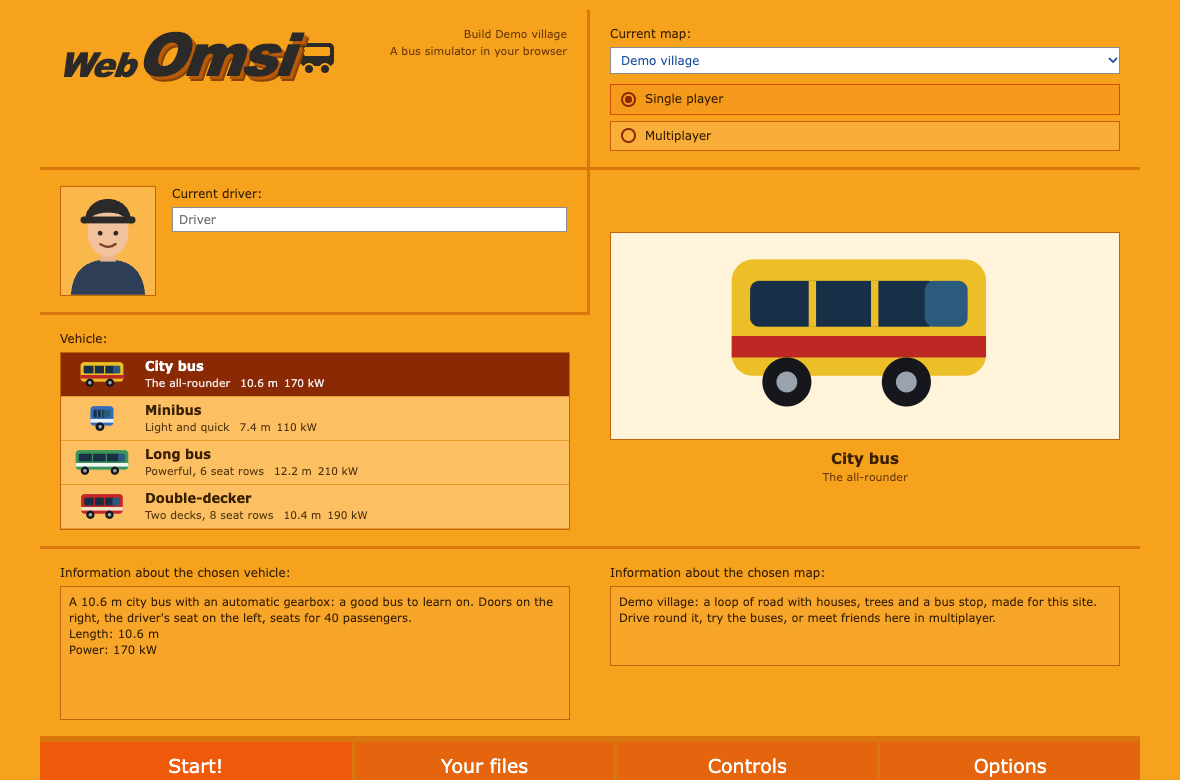
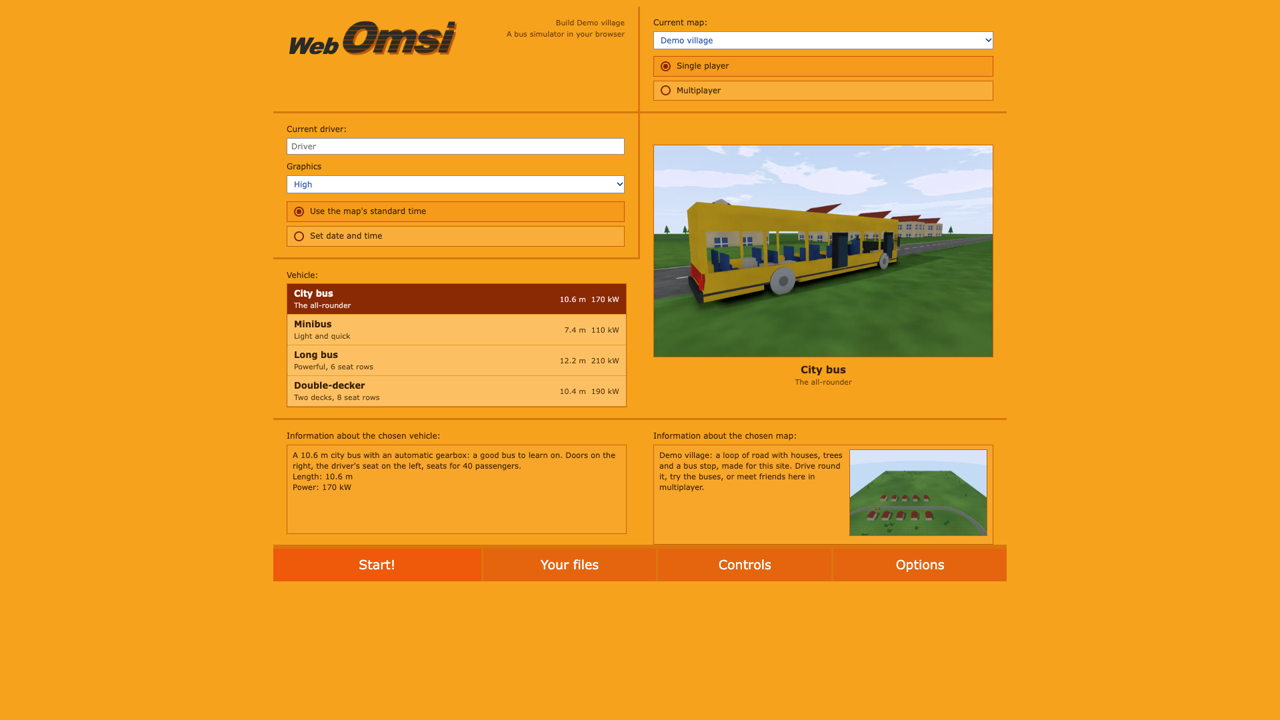
Closer to the classic menu: real screenshots instead of drawings, date and time, striped mark
* The drawn buses and the portrait are gone. The big picture is a screenshot of the chosen bus
  made by the engine itself (web/previews), the map has a thumbnail in its information box.
* The vehicles are a plain list box with name, note, length and power.
* New: choose the date and time of the start (passed to the engine as --date and --time).
* The mark is set in striped italic letters; graphics quality sits next to the driver's name.

Claude-Session: https://claude.ai/code/session_01EgXVikzUTPY17oVd6XAjtc

diff --git a/web/main.js b/web/main.js
@@ -68,6 +68,7 @@ const T = {
     files_n2: 'Files', loading_files: 'Downloading the game files', pick_folder: 'Choose a folder', own_drop2: 'Drop zip files or a folder here, or tap to choose', building: 'Putting the files together…', theme_classic: 'Classic', theme_modern: 'Modern', menu_title: 'WebOmsi - Main menu',
     cur_map: 'Current map:', cur_driver: 'Current driver:', vehicle: 'Vehicle:', info_bus: 'Information about the chosen vehicle:', info_map: 'Information about the chosen map:',
     build: 'Build', language: 'Language', options: 'Options', btn_own: 'Your files', from_files: 'From your files', map_from: 'A map from your files', spec_len: 'Length', spec_power: 'Power', pick_public: 'Pick a room or a server in the list, or choose another way to join.',
+    t_std: "Use the map's standard time", t_set: 'Set date and time', t_date: 'Date', t_time: 'Time',
     kb: [['W / S', 'gas / brake'], ['A / D', 'steering'], ['Space', 'parking brake'], ['Shift+U', 'start the bus'], ['Shift+1', 'doors'], ['H', 'horn'], ['Z / X / C', 'indicators / hazards'], ['F1', 'cameras'], ['Esc', 'game menu'], ['Mouse', 'look round, press cab buttons']],
     ts: [['Wheel', 'drag the steering wheel, left'], ['Pedals', 'BRAKE and GAS, right'], ['R N D', 'gearbox buttons'], ['P', 'parking brake'], ['Finger', 'look round; two fingers zoom']],
   },
@@ -112,6 +113,7 @@ const T = {
     files_n2: 'Файлы', loading_files: 'Загрузка файлов игры', pick_folder: 'Выбрать папку', own_drop2: 'Перетащите сюда zip или папку, либо нажмите и выберите', building: 'Собираю файлы вместе…', theme_classic: 'Классика', theme_modern: 'Современный', menu_title: 'WebOmsi - Главное меню',
     cur_map: 'Текущая карта:', cur_driver: 'Текущий водитель:', vehicle: 'Автобус:', info_bus: 'Информация о выбранном автобусе:', info_map: 'Информация о выбранной карте:',
     build: 'Сборка', language: 'Язык', options: 'Настройки', btn_own: 'Свои файлы', from_files: 'Из ваших файлов', map_from: 'Карта из ваших файлов', spec_len: 'Длина', spec_power: 'Мощность', pick_public: 'Выберите комнату или сервер в списке либо другой способ входа.',
+    t_std: 'Время карты по умолчанию', t_set: 'Задать дату и время', t_date: 'Дата', t_time: 'Время',
     kb: [['W / S', 'газ / тормоз'], ['A / D', 'руль'], ['Space', 'стояночный тормоз'], ['Shift+U', 'запустить автобус'], ['Shift+1', 'двери'], ['H', 'гудок'], ['Z / X / C', 'поворотники / аварийка'], ['F1', 'камеры'], ['Esc', 'меню игры'], ['Мышь', 'осмотреться, нажимать кнопки кабины']],
     ts: [['Руль', 'ведите по рулю, слева'], ['Педали', 'BRAKE и GAS, справа'], ['R N D', 'кнопки коробки передач'], ['P', 'стояночный тормоз'], ['Палец', 'осмотреться; двумя пальцами - приблизить']],
   },
@@ -165,22 +167,6 @@ const CACHE = 'omsi-pack-v1';
 const KEY = './__pack__/' + (manifest ? 'dir-' + manifest.id : encodeURIComponent(packUrl));
 document.title = 'WebOmsi' + (config.title ? ' - ' + config.title : '');
 
-// ---- bus pictures ------------------------------------------------------------------------------
-const NS = 'http://www.w3.org/2000/svg';
-function busArt(color = '#ecbe28', stripe = '#be2824', length = 10.6) {
-  const w = 40 + Math.round((length - 7) * 12);          // a longer bus is a longer picture
-  const svg = document.createElementNS(NS, 'svg');
-  svg.setAttribute('viewBox', `0 0 ${w + 20} 62`);
-  const el = (n, a) => { const e = document.createElementNS(NS, n); for (const k in a) e.setAttribute(k, a[k]); svg.append(e); return e; };
-  el('rect', { x: 8, y: 6, width: w, height: 38, rx: 7, fill: color });
-  el('rect', { x: 8, y: 31, width: w, height: 7, fill: stripe });
-  el('rect', { x: 14, y: 13, width: w - 22, height: 15, rx: 3, fill: '#173047' });
-  const n = Math.max(3, Math.round((w - 30) / 22));
-  for (let i = 1; i < n; i++) el('rect', { x: 14 + ((w - 22) / n) * i - 1.2, y: 13, width: 2.4, height: 15, fill: color });
-  el('rect', { x: w - 12, y: 13, width: 14, height: 15, rx: 3, fill: '#2a5a7c' });
-  for (const cx of [26, w - 18]) { el('circle', { cx, cy: 46, r: 8, fill: '#15171c' }); el('circle', { cx, cy: 46, r: 3.4, fill: '#9aa3ad' }); }
-  return svg;
-}
 const baseBuses = config.buses || [];
 // the player's own zips: [{ id, name, size, maps, buses }] (their bytes are in the cache)
 const MODS_KEY = 'omsi.mods';
@@ -189,14 +175,15 @@ try { mods = JSON.parse(localStorage.getItem(MODS_KEY) || '[]'); } catch (_) { m
 const saveMods = () => { try { localStorage.setItem(MODS_KEY, JSON.stringify(mods)); } catch (_) {} };
 const allBuses = () => [
   ...baseBuses,
-  ...mods.flatMap((m) => m.buses.map((b) => ({ file: b.file, name: b.label, info: m.name, color: '#9aa5b1', stripe: '#3d4652', length: 11, custom: true }))),
+  ...mods.flatMap((m) => m.buses.map((b) => ({ file: b.file, name: b.label, info: m.name, custom: true }))),
 ];
 const first = baseBuses[0] || {};
 const pick = (v) => (v && typeof v === 'object' ? (v[lang] || v.en || '') : (v || ''));
 function showBus(b) {
   b = b || allBuses().find((x) => x.file === chosen) || first;
   if (!b || !b.file) return;
-  $('art-bus').replaceChildren(busArt(b.color, b.stripe, b.length || 10.6));
+  const img = $('art-bus');
+  if (b.preview) { img.src = b.preview; img.alt = b.name; img.hidden = false; } else img.hidden = true;
   const cap = document.createElement('div'); cap.textContent = b.name;
   const small = document.createElement('small'); small.textContent = b.info || '';
   $('bus-caption').replaceChildren(cap, small);
@@ -209,7 +196,10 @@ function showBus(b) {
 function showMap() {
   const sel = $('map');
   const label = sel.selectedOptions[0] ? sel.selectedOptions[0].textContent : '';
-  $('info-map').textContent = (!sel.value || sel.value === MAP) ? pick(config.mapInfo) : `${t('map_from')}: ${label}`;
+  const mine = !sel.value || sel.value === MAP;
+  $('info-map').textContent = mine ? pick(config.mapInfo) : `${t('map_from')}: ${label}`;
+  const mi = $('map-img');
+  if (mine && config.mapPreview) { mi.src = config.mapPreview; mi.hidden = false; } else mi.hidden = true;
 }
 let chosen = params.get('bus') || localStorage.getItem('omsi.bus') || first.file;
 function renderBuses() {
@@ -222,13 +212,11 @@ function renderBuses() {
     input.addEventListener('change', () => { chosen = b.file; showBus(b); });
     const text = document.createElement('div');
     const name = document.createElement('b'); name.textContent = b.name;
-    const info = document.createElement('span'); info.className = 'info'; info.textContent = b.info || '';
-    const tags = document.createElement('div'); tags.className = 'tags';
-    if (b.custom) tags.append(Object.assign(document.createElement('span'), { className: 'tag', textContent: t('your_buses') }));
-    if (b.length && !b.custom) tags.append(Object.assign(document.createElement('span'), { className: 'tag', textContent: `${b.length} ${t('len')}` }));
-    if (b.kw) tags.append(Object.assign(document.createElement('span'), { className: 'tag', textContent: `${b.kw} ${t('kw')}` }));
-    text.append(name, info, tags);
-    label.append(input, busArt(b.color, b.stripe, b.length), text);
+    const info = document.createElement('span'); info.className = 'info'; info.textContent = b.custom ? t('your_buses') + ': ' + (b.info || '') : (b.info || '');
+    text.append(name, info);
+    const spec = document.createElement('span'); spec.className = 'spec';
+    spec.textContent = [b.length && !b.custom ? `${b.length} ${t('len')}` : '', b.kw ? `${b.kw} ${t('kw')}` : ''].filter(Boolean).join('  ');
+    label.append(input, text, spec);
     return label;
   }));
 }
@@ -238,6 +226,17 @@ $('name').value = localStorage.getItem('omsi.name') || '';
 $('server').value = params.get('server') || localStorage.getItem('omsi.server') || '';
 $('quality').value = params.get('quality') || localStorage.getItem('omsi.quality') || (touchDevice ? 'low' : 'high');
 $('map').addEventListener('change', () => showMap());
+// the date and time of the start (the map's own when not set)
+let timeSet = localStorage.getItem('omsi.tset') === '1';
+function renderTime() {
+  $('t-std').classList.toggle('on', !timeSet); $('t-set').classList.toggle('on', timeSet); $('t-fields').hidden = !timeSet;
+}
+$('t-std').addEventListener('click', () => { timeSet = false; localStorage.setItem('omsi.tset', '0'); renderTime(); });
+$('t-set').addEventListener('click', () => { timeSet = true; localStorage.setItem('omsi.tset', '1'); renderTime(); });
+$('t-date').value = localStorage.getItem('omsi.date') || '1989-05-30';
+$('t-time').value = localStorage.getItem('omsi.time') || '09:00';
+for (const id of ['t-date', 't-time']) $(id).addEventListener('change', () => localStorage.setItem(id === 't-date' ? 'omsi.date' : 'omsi.time', $(id).value));
+renderTime();
 function renderMaps() {
   const sel = $('map');
   const opts = [{ v: MAP, l: config.title || MAP }, ...mods.flatMap((m) => m.maps.map((x) => ({ v: x.file, l: `${x.name} · ${m.name}` })))];
@@ -574,6 +573,7 @@ async function play() {
     const { base, extras } = await getPack();
     const args = ['--map', $('map').value || MAP, '--bus', chosen, '--no-menu'];
     if (name) args.push('--lan-name', name);
+    if (timeSet && mode !== 'join') { if ($('t-time').value) args.push('--time', $('t-time').value); if ($('t-date').value) args.push('--date', $('t-date').value); }
     if (mode === 'join') {
       // open the channel to the host first: the game's session starts on it
       step(2); progress(null);

diff --git a/web/style.css b/web/style.css
@@ -35,8 +35,7 @@ label { display: block; font-size: 12px; color: var(--ink); margin: 0 0 4px; }
 /* ---- the mark ------------------------------------------------------------------------------------------ */
 .wordmark { display: flex; align-items: flex-end; line-height: .9; font-family: "Arial Black", "Segoe UI Black", Impact, Verdana, sans-serif; font-style: italic; font-weight: 900; color: #2b2a28; user-select: none; }
 .wordmark .w { font-size: 34px; margin-right: 3px; transform: skewX(-6deg); letter-spacing: -1px; }
-.wordmark .o { font-size: 60px; letter-spacing: -3px; text-shadow: 3px 3px 0 #b85a07, 5px 5px 0 #8a4505; transform: skewX(-6deg); }
-.wordmark .two { width: 40px; height: 44px; margin-left: 4px; }
+.wordmark .o { font-size: 64px; letter-spacing: -3px; transform: skewX(-6deg); color: transparent; background: repeating-linear-gradient(180deg, #2b2a28 0 5px, #6d3a07 5px 7px); -webkit-background-clip: text; background-clip: text; filter: drop-shadow(3px 3px 0 #b85a07); padding-right: 6px; }
 .build { text-align: right; font-size: 11px; color: var(--ink2); line-height: 1.5; }
 
 /* ---- controls ---------------------------------------------------------------------------------------- */
@@ -55,30 +54,33 @@ input:focus, select:focus { outline: 2px solid var(--mark); outline-offset: 0; }
 .btn { display: block; width: 100%; text-align: center; margin-top: 10px; text-decoration: none; }
 .btn.small { display: inline-block; width: auto; padding: 4px 10px; margin: 6px 6px 0 0; }
 .driver-fields { flex: 1; min-width: 0; }
-.avatar { width: 96px; height: 110px; flex: none; border: 1px solid var(--edge); }
+label.gap { margin-top: 10px; }
+.radios.tight { margin-top: 12px; }
+.tfields { display: flex; gap: 12px; margin-top: 8px; flex-wrap: wrap; } .tfields label { display: flex; align-items: center; gap: 6px; margin: 0; }
+.tfields input { width: auto; padding: 3px 5px; border: 1px solid #8d8d8d; background: #fff; color: #222; font: 12px Verdana, Tahoma, Arial, sans-serif; }
 a.btn { color: var(--ink); }
 button.link { background: none; border: 0; padding: 0; text-decoration: underline; color: var(--ink2); }
 .muted { margin: 8px 0; color: var(--ink2); font-size: 11.5px; } .muted.small { font-size: 10.5px; }
 
 /* the vehicles: a list box */
 .buses { flex: 1; min-height: 0; overflow: auto; border: 1px solid var(--edge); background: #fcc063; }
-.bus { display: grid; grid-template-columns: 64px 1fr; align-items: center; gap: 10px; padding: 4px 10px; margin: 0; border-bottom: 1px solid #e79b25; cursor: pointer; position: relative; }
+.bus { display: grid; grid-template-columns: 1fr auto; align-items: center; gap: 10px; padding: 5px 10px; margin: 0; border-bottom: 1px solid #e79b25; cursor: pointer; position: relative; }
 .bus:hover { background: #fdcb7a; }
 .bus input { position: absolute; opacity: 0; pointer-events: none; }
 .bus:has(input:checked) { background: var(--mark); color: #fff; }
-.bus svg { width: 64px; height: 32px; display: block; }
+.bus .spec { font-size: 11px; white-space: pre; opacity: .85; }
 .bus b { display: block; font-size: 13px; } .bus .info { font-size: 11px; opacity: .85; }
 .bus .info { display: inline-block; margin-right: 10px; } .tags { display: inline-block; } .tag { font-size: 10.5px; margin-right: 6px; opacity: .9; } .tag.ok { font-weight: 700; }
 
 /* the picture */
-.picture { background: #fff3da; border: 1px solid var(--edge); padding: 8px; display: grid; place-items: center; min-height: 140px; }
-.picture svg { width: 100%; max-height: 190px; height: auto; }
+.picture { display: block; width: 100%; height: auto; max-height: 100%; object-fit: cover; border: 1px solid var(--edge); background: #fff3da; }
 .caption { text-align: center; font-weight: 700; font-size: 15px; margin-top: 8px; color: var(--ink); }
 .caption small { display: block; font-weight: 400; font-size: 11px; color: var(--ink2); }
 
 /* the information boxes */
 .infobox { flex: 1; min-height: 80px; overflow: auto; border: 1px solid var(--edge); background: var(--box); padding: 6px 8px; font-size: 11.5px; white-space: pre-line; }
 .infobox b { display: block; margin-top: 6px; }
+.mapbox img { float: right; width: 42%; max-width: 220px; margin: 0 0 6px 10px; border: 1px solid var(--edge); }
 
 /* multiplayer */
 .mp { margin-top: 10px; }

diff --git a/web/index.html b/web/index.html
@@ -63,11 +63,6 @@
     <h2 data-i18n="options">Options</h2>
     <label data-i18n="language">Language</label>
     <div class="radios"><button id="lang-en" class="radio">English</button><button id="lang-ru" class="radio">Русский</button></div>
-    <label for="quality" data-i18n="quality">Graphics</label>
-    <select id="quality">
-      <option value="high" data-i18n="q_high">High</option>
-      <option value="low" data-i18n="q_low">Light</option>
-    </select>
     <p class="links">
       <a href="https://github.com/LakoMoor/WebOmsi" target="_blank" rel="noopener">GitHub</a> ·
       <a href="engine/" data-i18n="engine">About the engine</a>
@@ -84,7 +79,7 @@
   <div class="window" id="panel">
 
     <section class="cell c-logo">
-      <div class="wordmark" aria-label="WebOmsi"><span class="w">Web</span><span class="o">Omsi</span><svg class="two" viewBox="0 0 40 44" aria-hidden="true"><rect x="3" y="7" width="34" height="23" rx="5" fill="#2b2a28"/><rect x="7" y="11" width="26" height="9" rx="2" fill="#f5a31b"/><circle cx="12" cy="33" r="5" fill="#2b2a28" stroke="#f5a31b" stroke-width="2"/><circle cx="28" cy="33" r="5" fill="#2b2a28" stroke="#f5a31b" stroke-width="2"/></svg></div>
+      <div class="wordmark" aria-label="WebOmsi"><span class="w">Web</span><span class="o">Omsi</span></div>
       <div class="build"><span data-i18n="build">Build</span> <span id="build">web</span><br><span id="subtitle" data-i18n="tagline">A bus simulator in your browser</span></div>
     </section>
 
@@ -98,19 +93,22 @@
     </section>
 
     <section class="cell c-driver">
-      <svg class="avatar" viewBox="0 0 96 110" aria-hidden="true">
-        <rect width="96" height="110" fill="#fbb84a"/>
-        <path d="M10 110c2-26 16-36 38-36s36 10 38 36z" fill="#2f3e57"/>
-        <rect x="40" y="62" width="16" height="14" fill="#e7b48c"/>
-        <ellipse cx="48" cy="46" rx="21" ry="25" fill="#f1c29b"/>
-        <path d="M24 38c0-20 14-26 24-26s24 6 24 26c-6-9-14-12-24-12s-18 3-24 12z" fill="#2b2a28"/>
-        <rect x="20" y="30" width="56" height="7" rx="3" fill="#2b2a28"/>
-        <circle cx="40" cy="47" r="2.4" fill="#2b2a28"/><circle cx="56" cy="47" r="2.4" fill="#2b2a28"/>
-        <path d="M40 58q8 6 16 0" stroke="#7a3f2a" stroke-width="2.4" fill="none" stroke-linecap="round"/>
-      </svg>
       <div class="driver-fields">
         <label for="name" data-i18n="cur_driver">Current driver:</label>
         <input id="name" type="text" maxlength="24" autocomplete="nickname" data-i18n-ph="name_ph" placeholder="Driver">
+        <label for="quality" class="gap" data-i18n="quality">Graphics</label>
+        <select id="quality">
+          <option value="high" data-i18n="q_high">High</option>
+          <option value="low" data-i18n="q_low">Light (weaker devices)</option>
+        </select>
+        <div class="radios stack tight">
+          <button id="t-std" class="radio on" data-i18n="t_std">Use the map's standard time</button>
+          <button id="t-set" class="radio" data-i18n="t_set">Set date and time</button>
+        </div>
+        <div id="t-fields" class="tfields" hidden>
+          <label><span data-i18n="t_date">Date</span> <input id="t-date" type="date" value="1989-05-30"></label>
+          <label><span data-i18n="t_time">Time</span> <input id="t-time" type="time" value="09:00"></label>
+        </div>
       </div>
     </section>
 
@@ -120,7 +118,7 @@
     </section>
 
     <section class="cell c-picture">
-      <div id="art-bus" class="picture"></div>
+      <img id="art-bus" class="picture" alt="" hidden>
       <div id="bus-caption" class="caption"></div>
     </section>
 
@@ -132,7 +130,7 @@
     <section class="cell c-info-map">
       <div id="solo-info">
         <label data-i18n="info_map">Information about the chosen map:</label>
-        <div id="info-map" class="infobox"></div>
+        <div class="infobox mapbox"><img id="map-img" alt="" hidden><div id="info-map"></div></div>
       </div>
       <div id="multi" hidden>
         <div class="radios" id="mp-mode" role="tablist">
